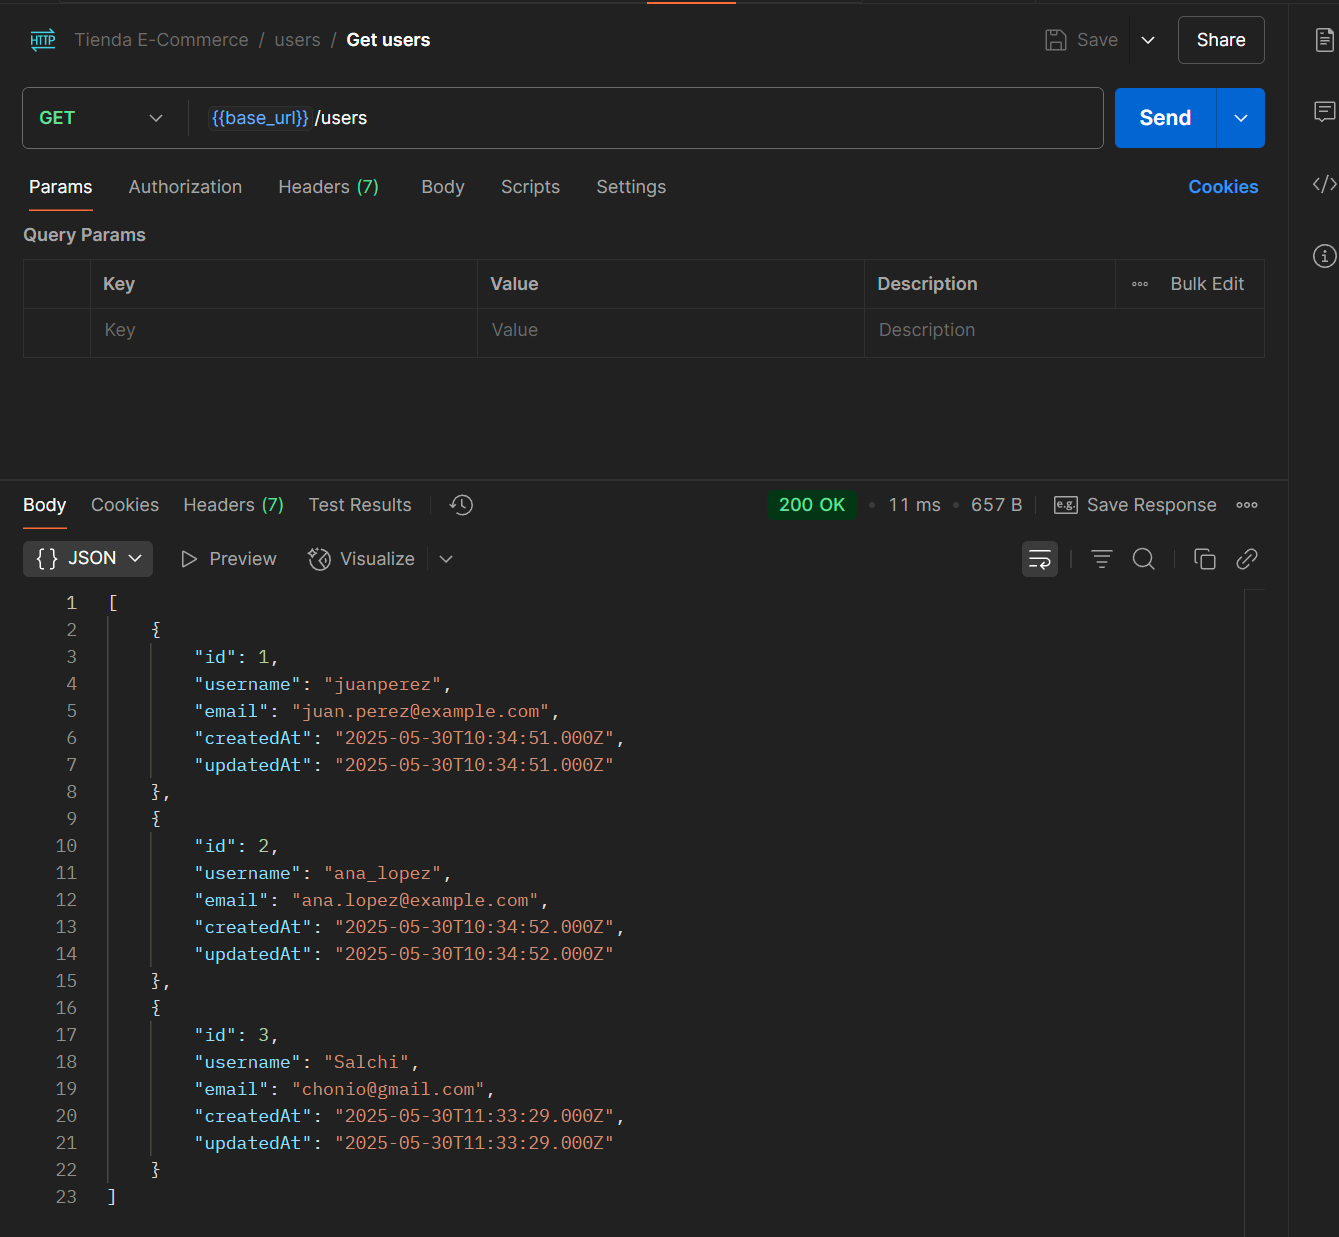
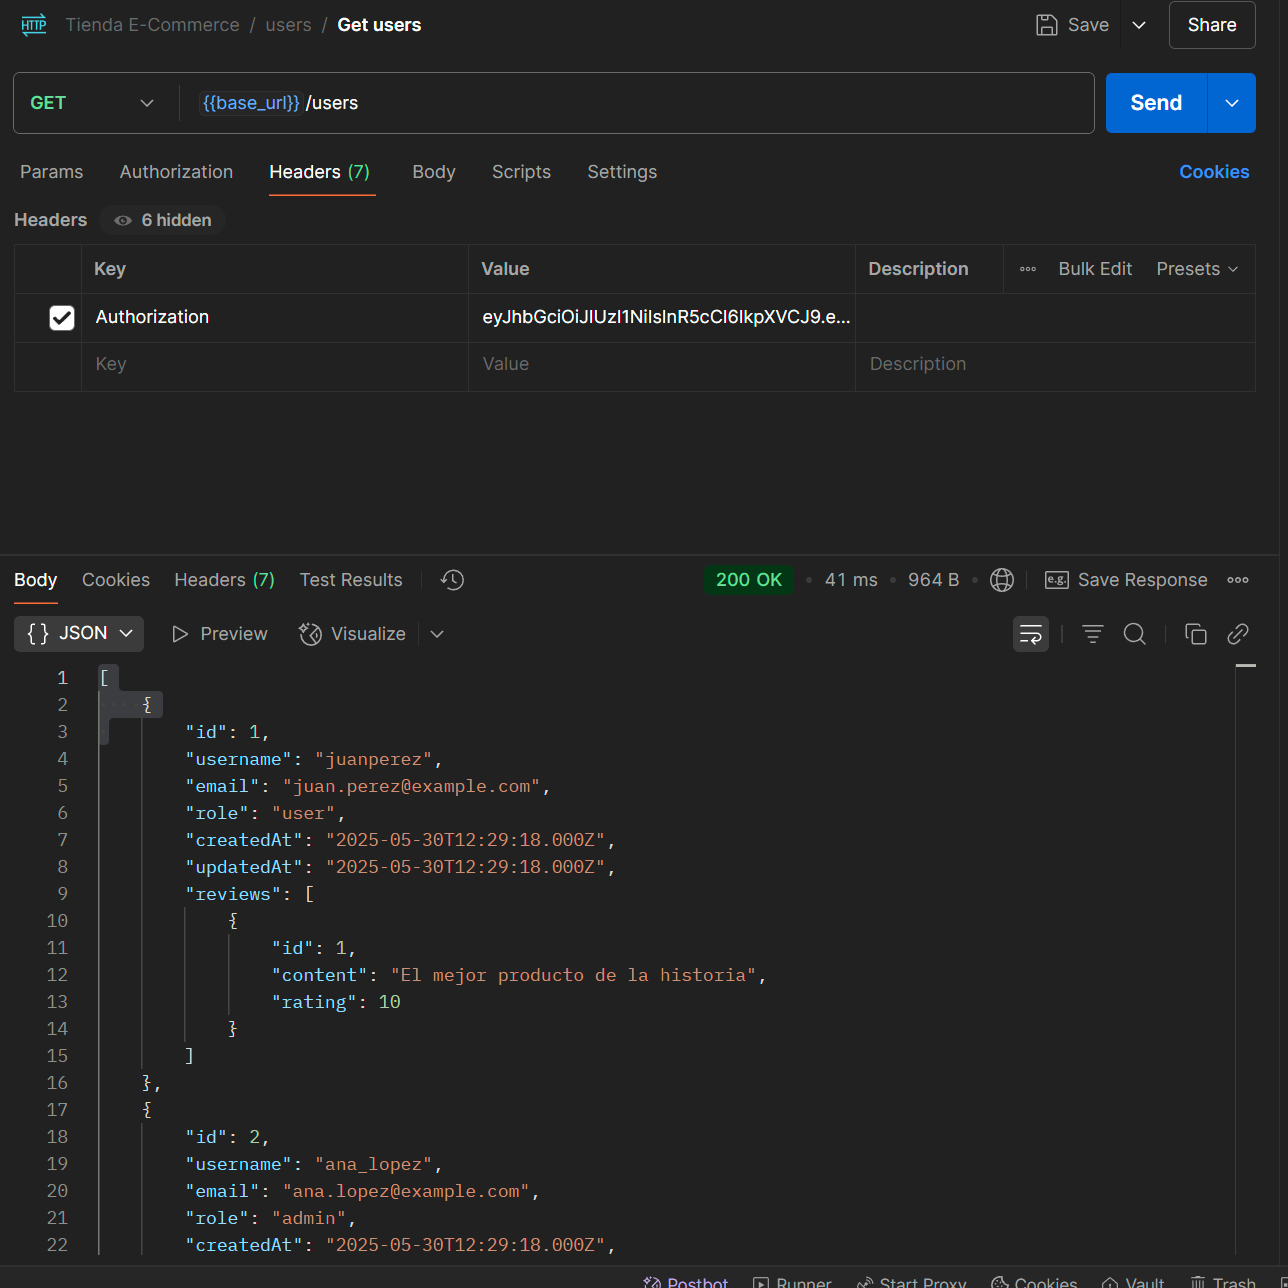
fixed users get all endpoint

diff --git a/controllers/UserController.js b/controllers/UserController.js
@@ -35,7 +35,7 @@ const UserController = {
                 attributes: { exclude: ['password'] },
                 include: [
                     {
-                        model: models.Review,
+                        model: Review,
                         as: 'reviews',
                         attributes: ['id', 'content', 'rating'],
                     },

diff --git a/README.md b/README.md
@@ -156,7 +156,7 @@ npm run dev
 ## Screenshots
 ![Endpoints con Postman](../Proyecto-Tienda-E-Commerce/assets/categories/endpoint_allCategoriesWithProduct.png)
 
-![Endpoints con Postman](../Proyecto-Tienda-E-Commerce/assets/users/endpoint_loginUser.png)
+![Endpoints con Postman](../Proyecto-Tienda-E-Commerce/assets/users/endpoint_getUsers.png)
 
   
 ## 👨💻 Autoras
